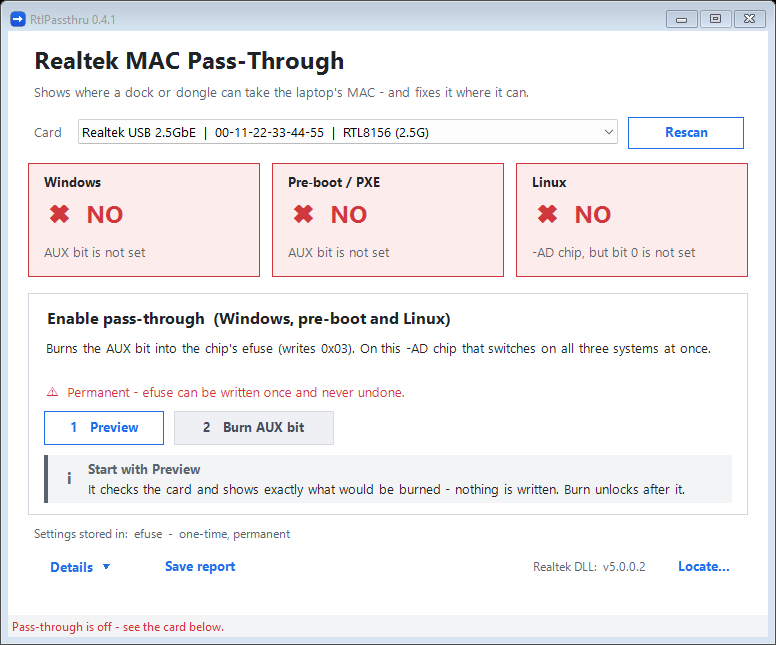
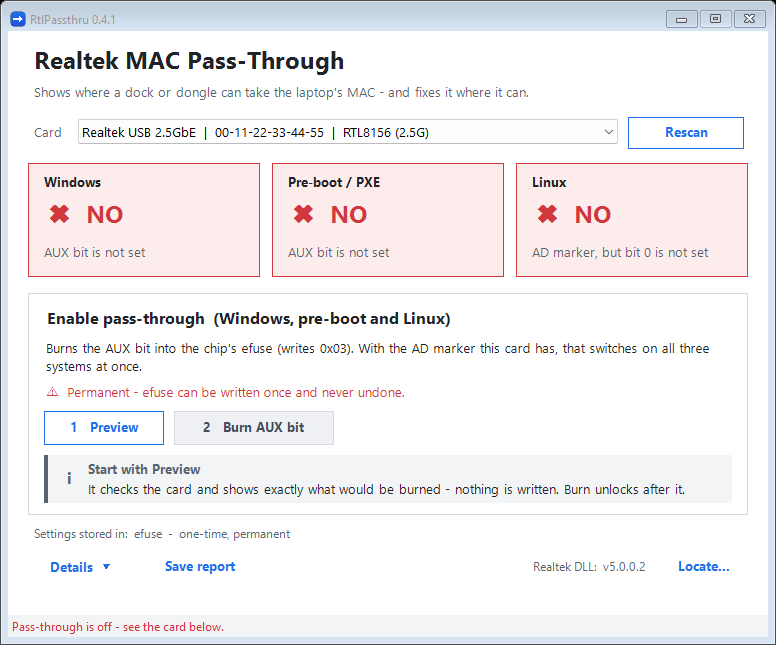
Name the r8152 marker, never a chip: an RTL8156 was shown as 'RTL8153-AD variant'
r8152 tests USB_MISC_0 / USB_MISC_1 on every chip it drives; its comments name
the values after RTL8153 variants, and the tool pasted 'RTL8153-' in front of
them. The reasons, tiles, details and docs now say 'AD marker
(USB_MISC_0 = 0x1000)' / 'BND / BD marker' and keep the driver's names only as
quoted names. A test makes sure no reason names a chip model.

Changed region(s): [[0.0619, 0.5271, 0.9278, 0.5891], [0.6804, 0.3721, 0.9278, 0.4031]]

diff --git a/tools/passthru.py b/tools/passthru.py
@@ -2,16 +2,19 @@
 
 Each layer checks a different marker on the card (see docs/how-mac-passthrough-works.md):
 
-  Windows (Realtek driver) : 0xCFDB bit1 (AUX-clone). Chip variant is ignored.
+  Windows (Realtek driver) : 0xCFDB bit1 (AUX-clone). The Linux markers are ignored.
   Pre-boot / PXE           : verified on a Dell with BIOS MAC Pass-Through: 0x03 works, 0x01 does not.
                              Those two cases cannot tell "bit1 alone" from "both bits", so a card with
                              the AUX bit but not bit0 (0x02) is reported as unknown (None / "?").
-  Linux (r8152)            : the chip VARIANT first - mainline drivers/net/usb/r8152.c,
+  Linux (r8152)            : a MARKER register first - mainline drivers/net/usb/r8152.c,
                              vendor_mac_passthru_addr_read():
                                Lenovo chip (USB VID 0x17EF)                 -> accepted
-                               RTL8153-AD  (USB_MISC_0 & 0xFEE0 == 0x1000) -> needs 0xCFDB bit0 too
-                               RTL8153-BND / -BD (USB_MISC_1 bit2 / bit0)  -> accepted, no efuse bit
+                               AD marker   (USB_MISC_0 & 0xFEE0 == 0x1000) -> needs 0xCFDB bit0 too
+                               BND / BD marker (USB_MISC_1 bit2 / bit0)     -> accepted, no efuse bit
                                anything else                                -> refused
+                             r8152's comments name these after RTL8153 variants (-AD / -BND / -BD), but it
+                             tests the registers on every chip it drives - an RTL8156 with the AD marker
+                             passes (verified). So the reasons name the marker, never a chip.
 """
 
 AD_MASK = 0xFEE0      # r8152: AD_MASK, compared against USB_MISC_0
@@ -24,7 +27,7 @@ LAYERS = ("Windows", "PXE", "Linux")
 
 
 def chip_variant(usb_misc_0: int, usb_misc_1: int, vid: int = 0x0BDA):
-    """The r8152 variant the chip identifies as, or None for a plain chip. Same order as the driver."""
+    """The r8152 marker the card carries ('AD' / 'BND' / 'BD' / 'Lenovo'), or None. Same order as the driver."""
     if vid == LENOVO_VID:
         return "Lenovo"
     if (usb_misc_0 & AD_MASK) == AD_VALUE:
@@ -86,12 +89,12 @@ def verdict(usb_misc_0: int, usb_misc_1: int, cfdb: int, vid: int = 0x0BDA, clon
 
     v = chip_variant(usb_misc_0, usb_misc_1, vid)
     if v is None:
-        lin = (False, "not a chip variant r8152 recognises (no AD / BND / BD marker)")
+        lin = (False, "no marker r8152 accepts (AD / BND / BD)")
     elif v == "AD":
-        lin = (True, "RTL8153-AD variant, and 0xCFDB bit0 is set") if bit0 else \
-              (False, "RTL8153-AD variant, but 0xCFDB bit0 is not set")
+        lin = (True, "AD marker (USB_MISC_0 = 0x1000), and 0xCFDB bit0 is set") if bit0 else \
+              (False, "AD marker (USB_MISC_0 = 0x1000), but 0xCFDB bit0 is not set")
     elif v in ("BND", "BD"):
-        lin = (True, f"RTL8153-{v} variant (the marker alone is enough)")
+        lin = (True, f"{v} marker (USB_MISC_1 bit{2 if v == 'BND' else 0}) - the marker alone is enough")
     else:
         lin = (True, "Lenovo chip (USB vendor 17EF)")
 
@@ -101,7 +104,7 @@ def verdict(usb_misc_0: int, usb_misc_1: int, cfdb: int, vid: int = 0x0BDA, clon
 def format_lines(result: dict) -> list:
     """Text lines for diag.py (for people; the GUI reads the JSON line instead)."""
     v = result["variant"] or "none"
-    out = [f"  chip variant (r8152) = {v}"]
+    out = [f"  r8152 marker = {v}"]
     for layer in LAYERS:
         ok, why = result[layer]
         word = "YES" if ok is True else ("NO " if ok is False else "?  ")

diff --git a/tools/marker.py b/tools/marker.py
@@ -7,9 +7,9 @@ Usage:
   [--dll new|old|auto] on either; --records defaults to ad
 
 The records:
-  cfdb   40 CF DB 03      0xCFDB = 0x03, both clone bits: Windows and pre-boot (and Linux on -AD chips).
+  cfdb   40 CF DB 03      0xCFDB = 0x03, both clone bits: Windows and pre-boot (and Linux with the AD marker).
                           RTL8153 family only - on RTL8156 efuse.py burns it (proven there).
-  ad     41 D8 1A 00 10   USB_MISC_0 = 0x1000, the -AD chip-variant marker: Linux (r8152). It also needs
+  ad     41 D8 1A 00 10   USB_MISC_0 = 0x1000, the AD marker: Linux (r8152). It also needs
                           0xCFDB bit0, so it is refused alone on a chip without it (pick cfdb with it).
                           RTL8153 family only.
   rev    41 <reg> <rev>   EXPERIMENTAL. The USB revision (bcdDevice) with its low nibble F -> 2: the Windows
@@ -44,7 +44,7 @@ from passthru import AD_MASK, AD_VALUE  # noqa: E402
 from jsonout import emit, wanted  # noqa: E402
 from rtldiag import EfuseUnavailable, RtlDiag  # noqa: E402
 
-REG, VALUE = 0xD81A, 0x1000          # USB_MISC_0 = 0x1000: r8152 sees an RTL8153-AD
+REG, VALUE = 0xD81A, 0x1000          # USB_MISC_0 = 0x1000: the AD marker r8152 accepts
 ORDER = ("cfdb", "ad", "rev")        # the records, in burn order
 WHAT = {"cfdb": "0xCFDB = 0x03, both clone bits: Windows and pre-boot",
         "ad": "USB_MISC_0 = 0x1000, the -AD marker: Linux",
@@ -90,7 +90,7 @@ def plan(c, want):
             skipped.append("the -AD marker")
             print("PLAN SKIP ad = the chip already reports the -AD marker")
         elif not cf & 1 and "cfdb" not in todo:
-            plan_result("REFUSED", "0xCFDB bit0 is not set - on an -AD chip Linux needs it too, so the marker alone "
+            plan_result("REFUSED", "0xCFDB bit0 is not set - with the AD marker Linux needs it too, so the marker alone "
                                    "would not help (burn 0xCFDB = 0x03 with it)")
             return None
         else:

diff --git a/tests/test_passthru.py b/tests/test_passthru.py
@@ -63,7 +63,7 @@ def test_lenovo_vid():
 
 def test_format_lines_are_stable():
     lines = pt.format_lines(pt.verdict(0x0000, 0x40, 0x03))
-    assert lines[0] == "  chip variant (r8152) = none"
+    assert lines[0] == "  r8152 marker = none"
     assert lines[1].startswith("PASSTHRU Windows = YES  (")
     assert lines[3].startswith("PASSTHRU Linux   = NO   (")
 
@@ -94,3 +94,13 @@ def test_windows_needs_the_driver_clone_switch_too():
     assert off["PXE"] == on["PXE"] and off["Linux"] == on["Linux"]
     # no AUX bit: that stays the reason, whatever the registry says
     assert "0xCFDB bit1" in pt.verdict(0x1000, 0, 0x01, clone=False)["Windows"][1]
+
+
+def test_reasons_name_the_marker_never_a_chip():
+    # Regression: an RTL8156 with the AD marker was reported as "RTL8153-AD variant". r8152 tests the
+    # marker registers on any chip, so no reason may name a chip model.
+    for m0, m1 in ((0x1000, 0x00), (0x0000, 0x04), (0x0000, 0x01), (0x0000, 0x00)):
+        for cfdb in (0x00, 0x01, 0x03):
+            r = pt.verdict(m0, m1, cfdb)
+            assert not any("RTL8" in r[k][1] for k in ("Windows", "PXE", "Linux")), r
+    assert "AD marker" in pt.verdict(0x1000, 0x00, 0x03)["Linux"][1]

diff --git a/tools/efuse.py b/tools/efuse.py
@@ -5,7 +5,7 @@ Usage:
   python -I efuse.py {GUID} --plan [--dll ...]    dry run: show where/what would be written
   python -I efuse.py {GUID} --burn [--dll ...]    OTP write 0xCFDB=0x03 (both clone bits), verify
 
-Always 0x03, like a chip that ships enabled: Windows needs the AUX bit (bit1), Linux on -AD chips also
+Always 0x03, like a chip that ships enabled: Windows needs the AUX bit (bit1), Linux on cards with the AD marker also
 needs bit0, and pre-boot was verified with 0x03 only. (The old --aux-only / 0x02 option was removed.)
 
 The burn appends a 4-byte record to the trailing 0xFF run (end of autoload); factory data is untouched.
@@ -66,7 +66,7 @@ def main(argv):
         print("usage: efuse.py {GUID} [N] [--plan|--burn] [--dll new|old|auto] [--json]")
         return 2
     if "--aux-only" in argv:
-        print("ERROR: --aux-only was removed. 0x02 turns Linux pass-through off on -AD chips and was never "
+        print("ERROR: --aux-only was removed. 0x02 turns Linux pass-through off on cards with the AD marker and was never "
               "tested at pre-boot; RtlPassthru always writes 0x03.")
         return 2
     guid = argv[0]

diff --git a/tools/diag.py b/tools/diag.py
@@ -1,7 +1,7 @@
 """Read a Realtek USB card's plain registers (USB-OCP) via the diag DLL. Read-only (except --eeprom-test).
 
 Usage:  python -I diag.py {InterfaceGUID} [--dll new|old|auto] [--vid 0BDA] [--eeprom-test]
-Prints bcdDevice(REV), USB_MISC_0/1 and 0xCFDB with its RT/AUX clone bits, then the chip variant and a
+Prints bcdDevice(REV), USB_MISC_0/1 and 0xCFDB with its RT/AUX clone bits, then the r8152 marker and a
 per-layer pass-through verdict (Windows / PXE / Linux, see passthru.py). Register reads use
 USBDirectRead (reliable, no off-by-one). With --json the last line is JSON {...} - that is what the GUI reads.
 --eeprom-test: tell "blank EEPROM" from "no EEPROM" the way Realtek's tool does - writes a test word to

diff --git a/tools/settings.py b/tools/settings.py
@@ -21,7 +21,7 @@ from rtldiag import EfuseUnavailable, RtlDiag
 from storage import flash_name, has_flash
 
 NAMES = {0xC000: "MAC address", 0xCFDB: "SW_FEATURE - MAC clone / pass-through bits",
-         0xD81A: "USB_MISC_0 - chip variant (AD marker)", 0xD81F: "USB_MISC_1 - chip variant (BD/BND)"}
+         0xD81A: "USB_MISC_0 - r8152 AD marker", 0xD81F: "USB_MISC_1 - r8152 BD/BND markers"}
 EFUSE_BYTES = 2048      # the whole efuse address space of the dword protocol (9-bit dword address)
 FLASH_BYTES = 256       # only the start of the flash is shown (header of the driver install disk)
 

diff --git a/README.md b/README.md
@@ -39,8 +39,8 @@ condition; "—" means not checked:
 |---|:---:|:---:|:---:|:---:|
 | **Windows** | **1** | **1** \* | — | — |
 | **Pre-boot / PXE** | **1** | **1** \*\* | — | — |
-| **Linux** — chip the driver calls "RTL8153-AD" | — | **1** | **`0x1000`** | — |
-| **Linux** — chip it calls "RTL8153-BND" / "-BD" | — | — | — | **1** |
+| **Linux** — AD marker (the driver calls it "RTL8153-AD") | — | **1** | **`0x1000`** | — |
+| **Linux** — BND / BD marker ("RTL8153-BND" / "-BD") | — | — | — | **1** |
 
 Linux needs **any one** of its two rows; on a Lenovo device (recognised by its USB vendor ID) it
 skips these checks altogether.
@@ -71,7 +71,9 @@ own value from the factory, then any efuse record on top — which is how RtlPas
 Where the names come from — the chip itself holds only the numbers: **Windows driver** — its log
 messages *"Is AUX / RT MAC clone support system"* (`rtump64x64.sys`, `NIC_QuerySpecificHwCaps`);
 **Linux driver** — the defines and comments in `drivers/net/usb/r8152.c`, which also name the
-variants "RTL8153-AD", "-BND" and "-BD".
+variants "RTL8153-AD", "-BND" and "-BD". Those are only names: the driver tests the same registers on
+every chip it drives, so an RTL8156 with `USB_MISC_0 = 0x1000` passes too (verified). The tool calls
+them the AD / BND / BD *markers*.
 
 ### Realtek's names for these bits
 

diff --git a/docs/how-mac-passthrough-works.md b/docs/how-mac-passthrough-works.md
@@ -98,7 +98,8 @@ real identity before any OS loads.
 
 ### Linux (`r8152` driver)
 
-Linux checks the chip variant first. From `vendor_mac_passthru_addr_read()` in the mainline kernel
+Linux checks a marker register first (its comments call these RTL8153 variants, but the test is the
+same on every chip it drives - an RTL8156 with the AD marker passes). From `vendor_mac_passthru_addr_read()` in the mainline kernel
 (excerpt, unchanged):
 
 ```c
